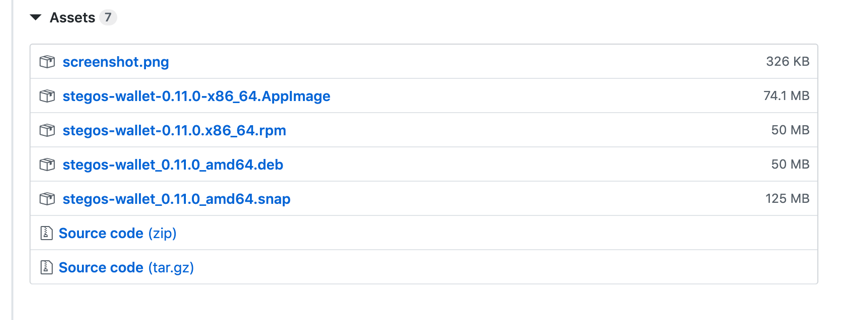
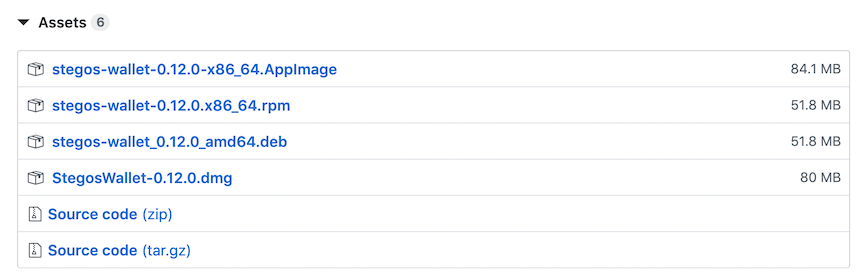
Fix stegos app link and screenshot

diff --git a/docs/news/2019/08/first-desktop-app-beta/index.html b/docs/news/2019/08/first-desktop-app-beta/index.html
@@ -262,7 +262,7 @@ This is the very first public version of the app, so it’s still a work in prog
 
 <img src="/images/Desktop_app_1.png" alt="Assets" />
 
-<em>3.</em> Click <a href="https://github.com/stegos/stegos-wallet/releases/download/v0.11/stegos-wallet-0.11.0-x86_64.AppImage">stegos-wallet-0.11.0-x86_64.AppImage</a> to download the app for Mac.
+<em>3.</em> Click <a href="https://github.com/stegos/stegos-wallet/releases/download/v0.12/StegosWallet-0.12.0.dmg">StegosWallet-0.12.0.dmg</a> to download the app for Mac.
 Use the other files to download the Linux app (depending on your distribution).
 
 <img src="/images/Desktop_app_2.png" alt="Download the app" />

diff --git a/docs/zn/news/2019/08/first-desktop-app-beta/index.html b/docs/zn/news/2019/08/first-desktop-app-beta/index.html
@@ -259,7 +259,7 @@
 
 <p><img src="/images/Desktop_app_1.png" alt="Assets" /></p>
 
-<p><em>3.</em> 点击 <a href="https://github.com/stegos/stegos-wallet/releases/download/v0.11/stegos-wallet-0.11.0-x86_64.AppImage">stegos-wallet-0.11.0-x86_64.AppImage</a> 来下载Mac版app。
+<p><em>3.</em> 点击 <a href="https://github.com/stegos/stegos-wallet/releases/download/v0.12/StegosWallet-0.12.0.dmg">StegosWallet-0.12.0.dmg</a> 来下载Mac版app。
 点击其他文件来下载 Linux app (下载哪个取决于您的Linux系统)。</p>
 
 <p><img src="/images/Desktop_app_2.png" alt="下载App" /></p>

diff --git a/content/news/2019/08/first-desktop-app-beta.md b/content/news/2019/08/first-desktop-app-beta.md
@@ -45,7 +45,7 @@ To download the Stegos app
 
 ![Assets](/images/Desktop_app_1.png)
 
-*3.* Click [stegos-wallet-0.11.0-x86_64.AppImage](https://github.com/stegos/stegos-wallet/releases/download/v0.11/stegos-wallet-0.11.0-x86_64.AppImage) to download the app for Mac.
+*3.* Click [StegosWallet-0.12.0.dmg](https://github.com/stegos/stegos-wallet/releases/download/v0.12/StegosWallet-0.12.0.dmg) to download the app for Mac.
 Use the other files to download the Linux app (depending on your distribution).
 
 ![Download the app](/images/Desktop_app_2.png)

diff --git a/content/news/2019/08/first-desktop-app-beta.zn.md b/content/news/2019/08/first-desktop-app-beta.zn.md
@@ -47,7 +47,7 @@ Stegos团队
 
 ![Assets](/images/Desktop_app_1.png)
 
-*3.* 点击 [stegos-wallet-0.11.0-x86_64.AppImage](https://github.com/stegos/stegos-wallet/releases/download/v0.11/stegos-wallet-0.11.0-x86_64.AppImage) 来下载Mac版app。
+*3.* 点击 [StegosWallet-0.12.0.dmg](https://github.com/stegos/stegos-wallet/releases/download/v0.12/StegosWallet-0.12.0.dmg) 来下载Mac版app。
 点击其他文件来下载 Linux app (下载哪个取决于您的Linux系统)。
 
 ![下载App](/images/Desktop_app_2.png)
